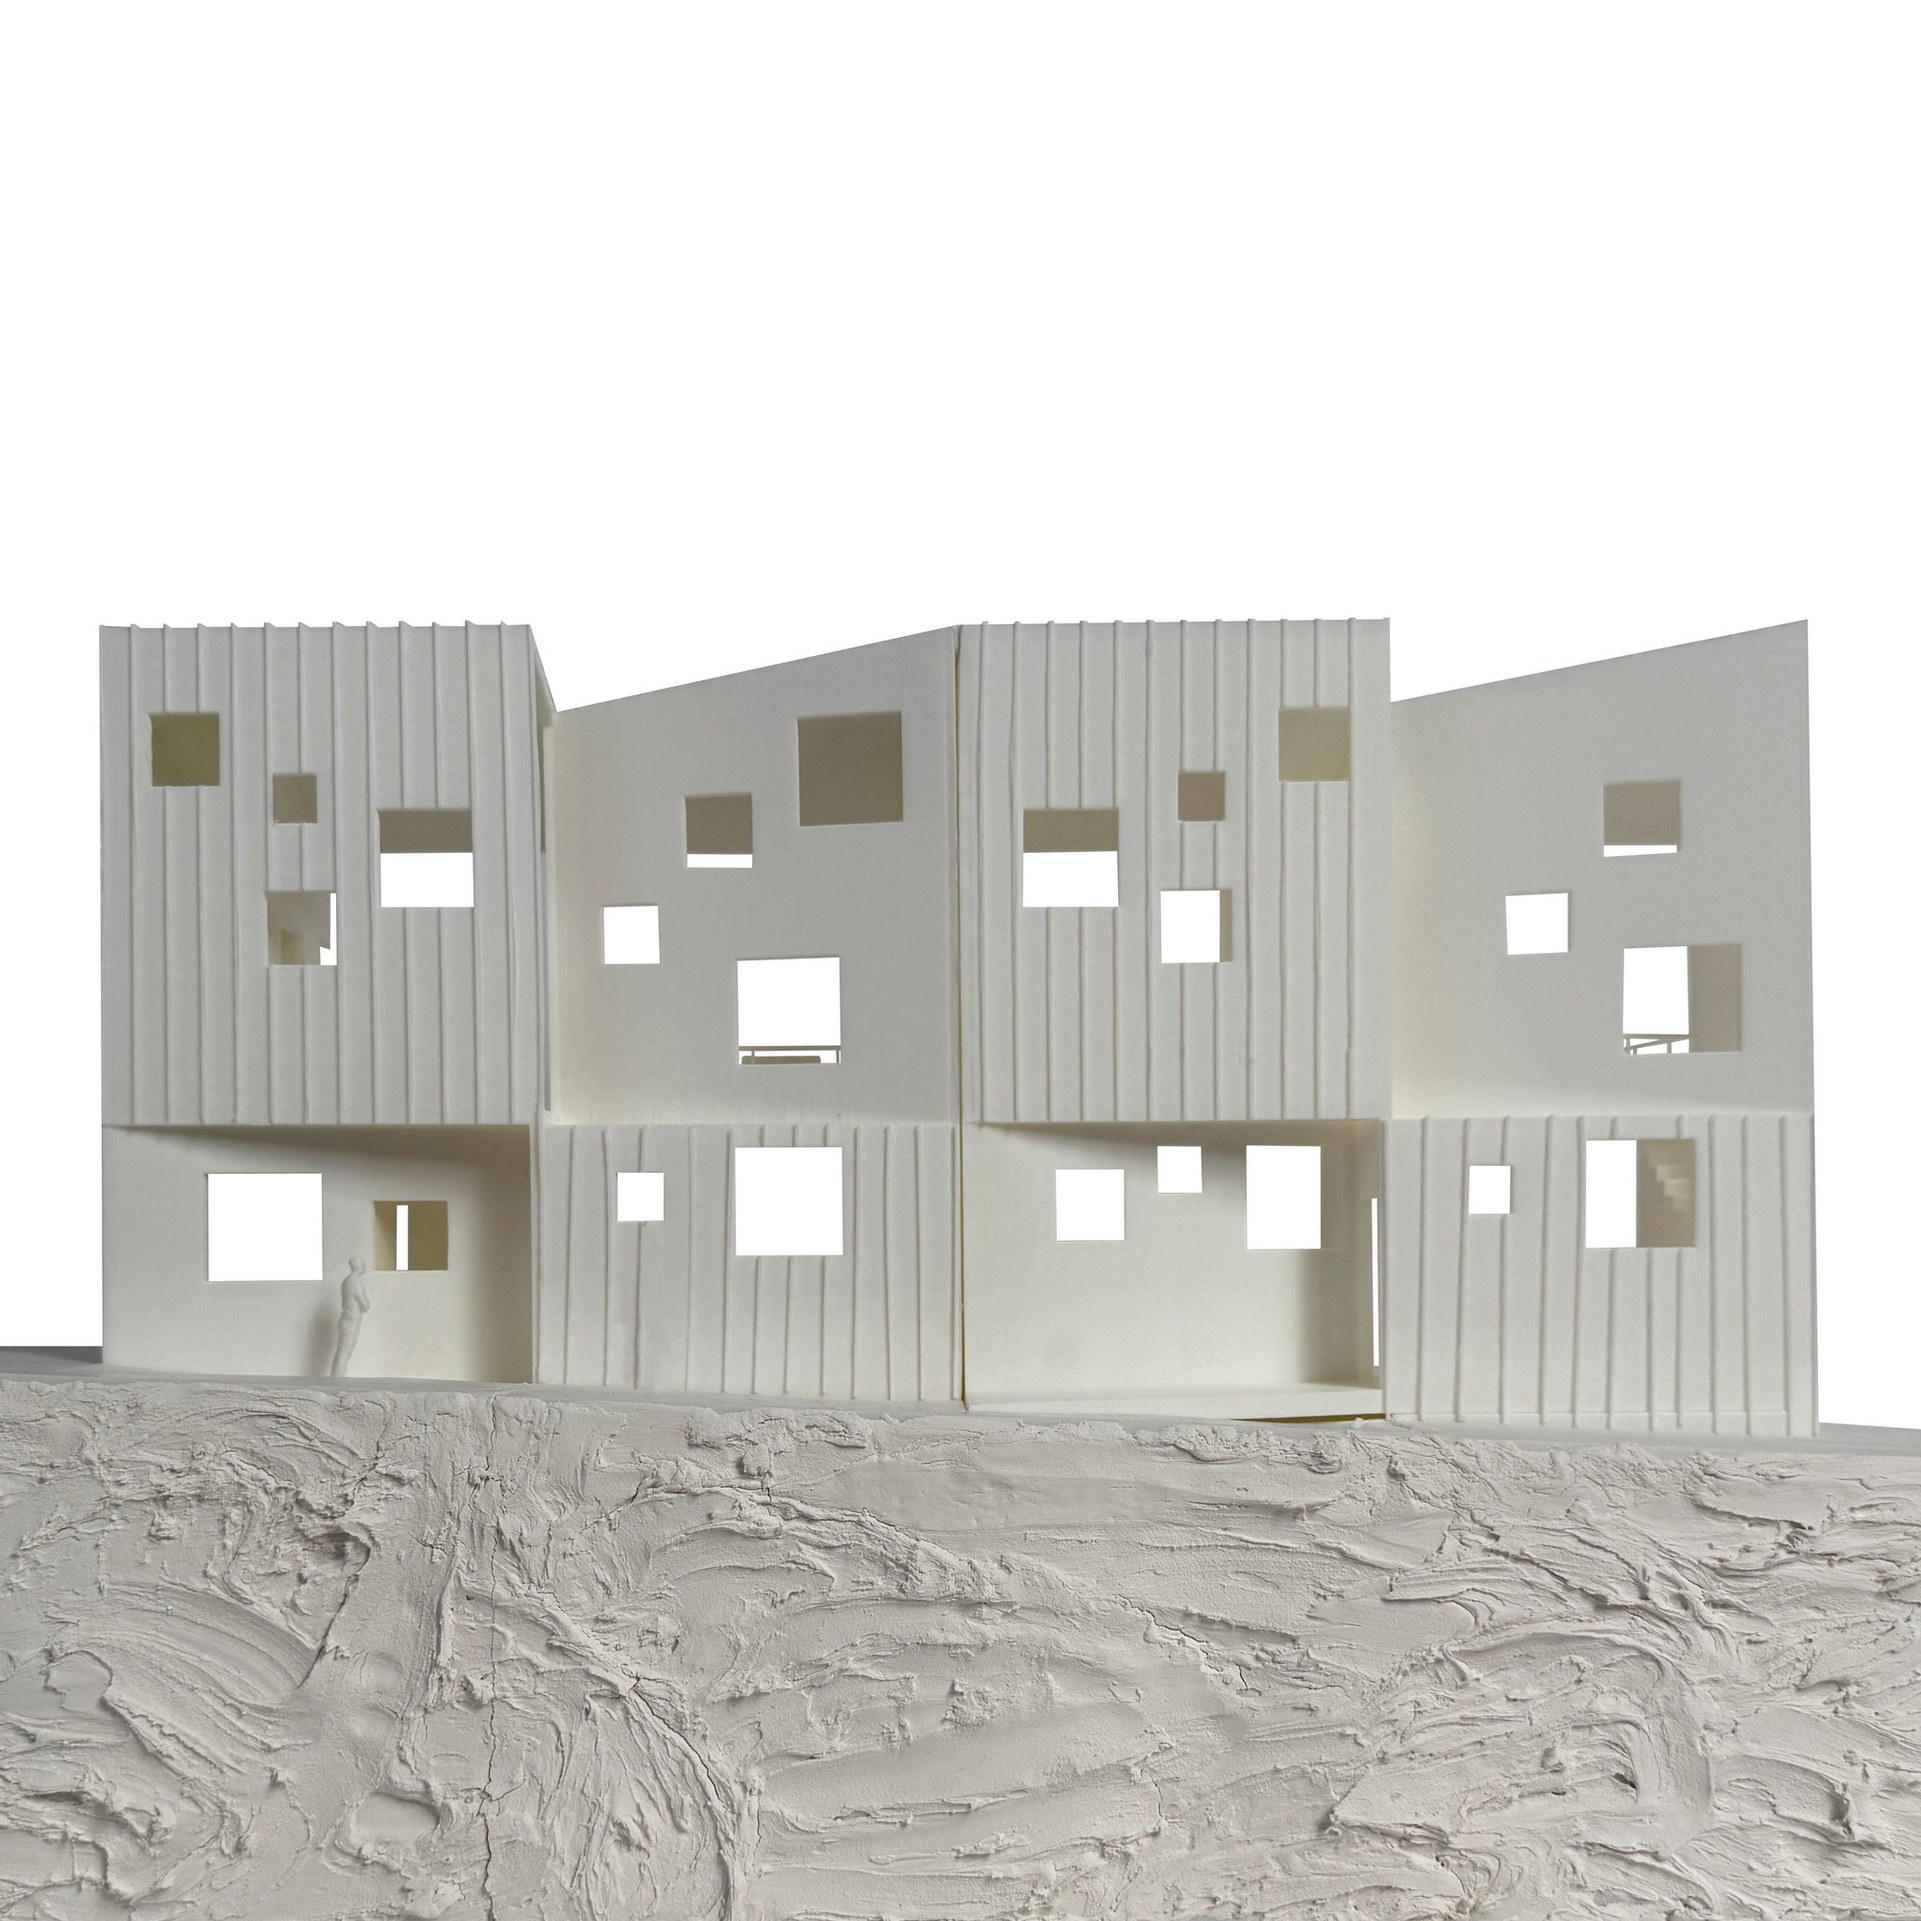
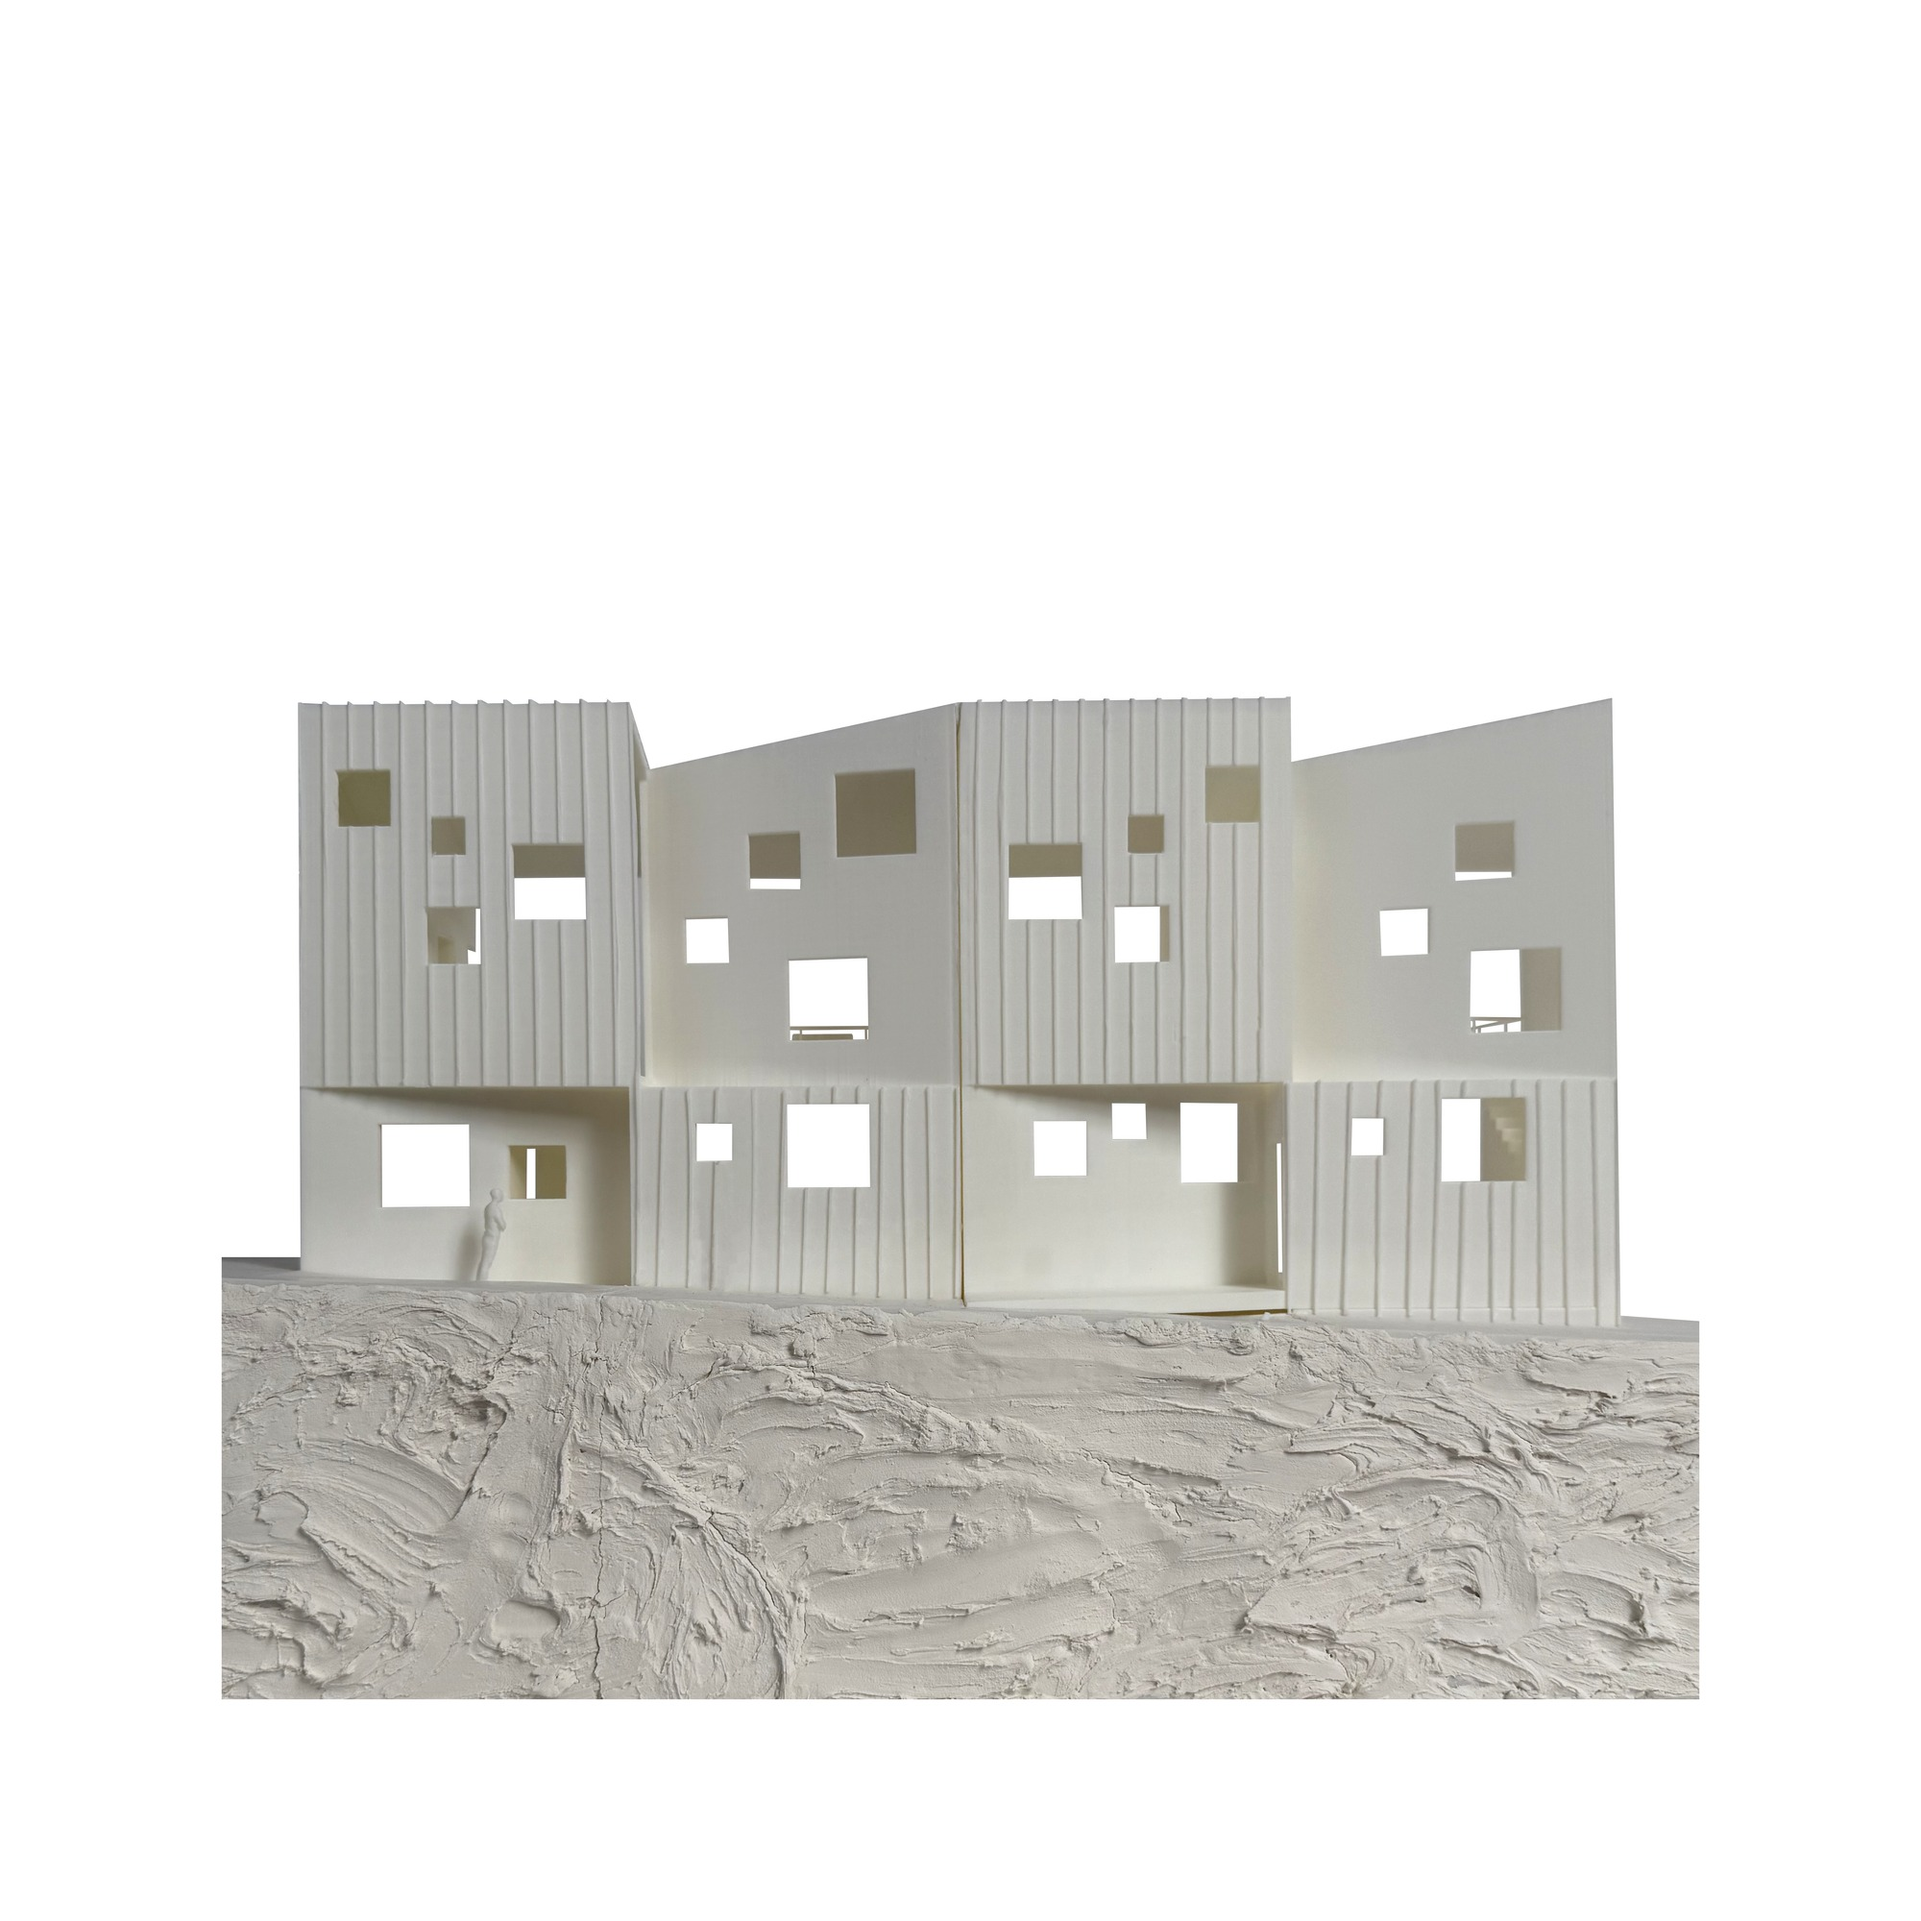
Add mobile responsive layout, fix modular housing model photos, and fix scroll-paging race
- Add mobile (max-width: 700px) styles for the top band, project grid/teammate
  credits, and About page, layered on top of the existing desktop styles.
- Fix a mobile-only bug where the scroll-snap target sat on the gallery image
  only, pushing the stacked title behind the fixed band on snap/anchor.
- Fix a mobile overflow bug where large resume date text ran off the edge of
  the page, which was also throwing off the fixed nav's position.
- Pad model-facade.jpg and model-section.jpg (Modular Housing) with margin so
  the model no longer touches the frame edge, re-derived from the original
  source photos.
- Replace scrollPaging.ts's fixed-duration cooldown with the native
  'scrollend' event, fixing an intermittent race where a late momentum-tail
  wheel event could sneak through before a tall project's smooth scroll had
  actually finished, making a single swipe occasionally feel like it needed
  a second one.

diff --git a/src/scripts/scrollPaging.ts b/src/scripts/scrollPaging.ts
@@ -19,14 +19,23 @@
 // and the next begins (e.g. waiting for wheel events to go quiet) is
 // fragile — momentum tails and quick successive swipes can both defeat
 // it. Instead: the first wheel event triggers exactly one step and
-// locks out *all* wheel input, unconditionally, for a fixed cooldown —
-// long enough to outlast a real swipe's momentum tail. That guarantees
-// at most one step per cooldown window no matter how many wheel events
-// arrive or why; the only cost is that two deliberate swipes thrown
-// back-to-back faster than the cooldown will merge into one, which is a
-// far better failure mode than a single swipe flying through the deck.
+// locks out *all* wheel input, unconditionally, until the resulting
+// smooth scroll has actually finished (the native 'scrollend' event) —
+// that guarantees at most one step per gesture no matter how many wheel
+// events arrive or why, and unlike a fixed-duration timer, it can never
+// expire early. A fixed timer raced the real animation: a tall
+// project's smooth scroll can take longer to settle than a guessed
+// cooldown, and a late momentum-tail event sneaking in after the timer
+// expired but before the scroll had actually arrived would recalculate
+// mid-flight — from wherever it happened to be at that instant, not
+// from the real destination — which is what made a single deliberate
+// swipe intermittently feel like it "didn't take" and needed a second
+// one. FALLBACK_COOLDOWN_MS is just a safety net for browsers without
+// 'scrollend' support (or the rare case goToStep didn't scroll at all,
+// e.g. already at the last project, so 'scrollend' never fires) — it
+// should essentially never be what actually unlocks things.
 
-const COOLDOWN_MS = 1100;
+const FALLBACK_COOLDOWN_MS = 2000;
 
 function getSnapPoints(): HTMLElement[] {
   const spacer = document.querySelector<HTMLElement>('[data-intro-spacer]');
@@ -59,6 +68,14 @@ function goToStep(direction: 1 | -1) {
 }
 
 let locked = false;
+let fallbackTimer: ReturnType<typeof setTimeout> | undefined;
+
+function unlock() {
+  locked = false;
+  clearTimeout(fallbackTimer);
+}
+
+window.addEventListener('scrollend', unlock);
 
 window.addEventListener(
   'wheel',
@@ -69,9 +86,7 @@ window.addEventListener(
 
     locked = true;
     goToStep(event.deltaY > 0 ? 1 : -1);
-    setTimeout(() => {
-      locked = false;
-    }, COOLDOWN_MS);
+    fallbackTimer = setTimeout(unlock, FALLBACK_COOLDOWN_MS);
   },
   { passive: false },
 );

diff --git a/src/scripts/projectSpacing.ts b/src/scripts/projectSpacing.ts
@@ -43,7 +43,17 @@ function apply() {
     project.style.marginBottom = `${Math.max(needed, baseMargin)}px`;
 
     const credits = project.querySelector<HTMLElement>('.project__credits');
-    if (credits) {
+    // Below 700px, ProjectEntry.astro's own media query takes over
+    // (a plain static caption line — there's no left margin column left
+    // to position a vertical sidebar into once the gallery goes
+    // edge-to-edge). Clearing any inline left/bottom left over from a
+    // wider viewport matters too: inline styles beat a stylesheet media
+    // query, so without this a resize from desktop down to mobile would
+    // leave the credits stuck at their last desktop position.
+    if (credits && window.innerWidth <= 700) {
+      credits.style.left = '';
+      credits.style.bottom = '';
+    } else if (credits) {
       const projectRect = project.getBoundingClientRect();
       // credits is positioned by its own left edge, so its rendered
       // width (its "thickness" as a column of vertical text) has to be
